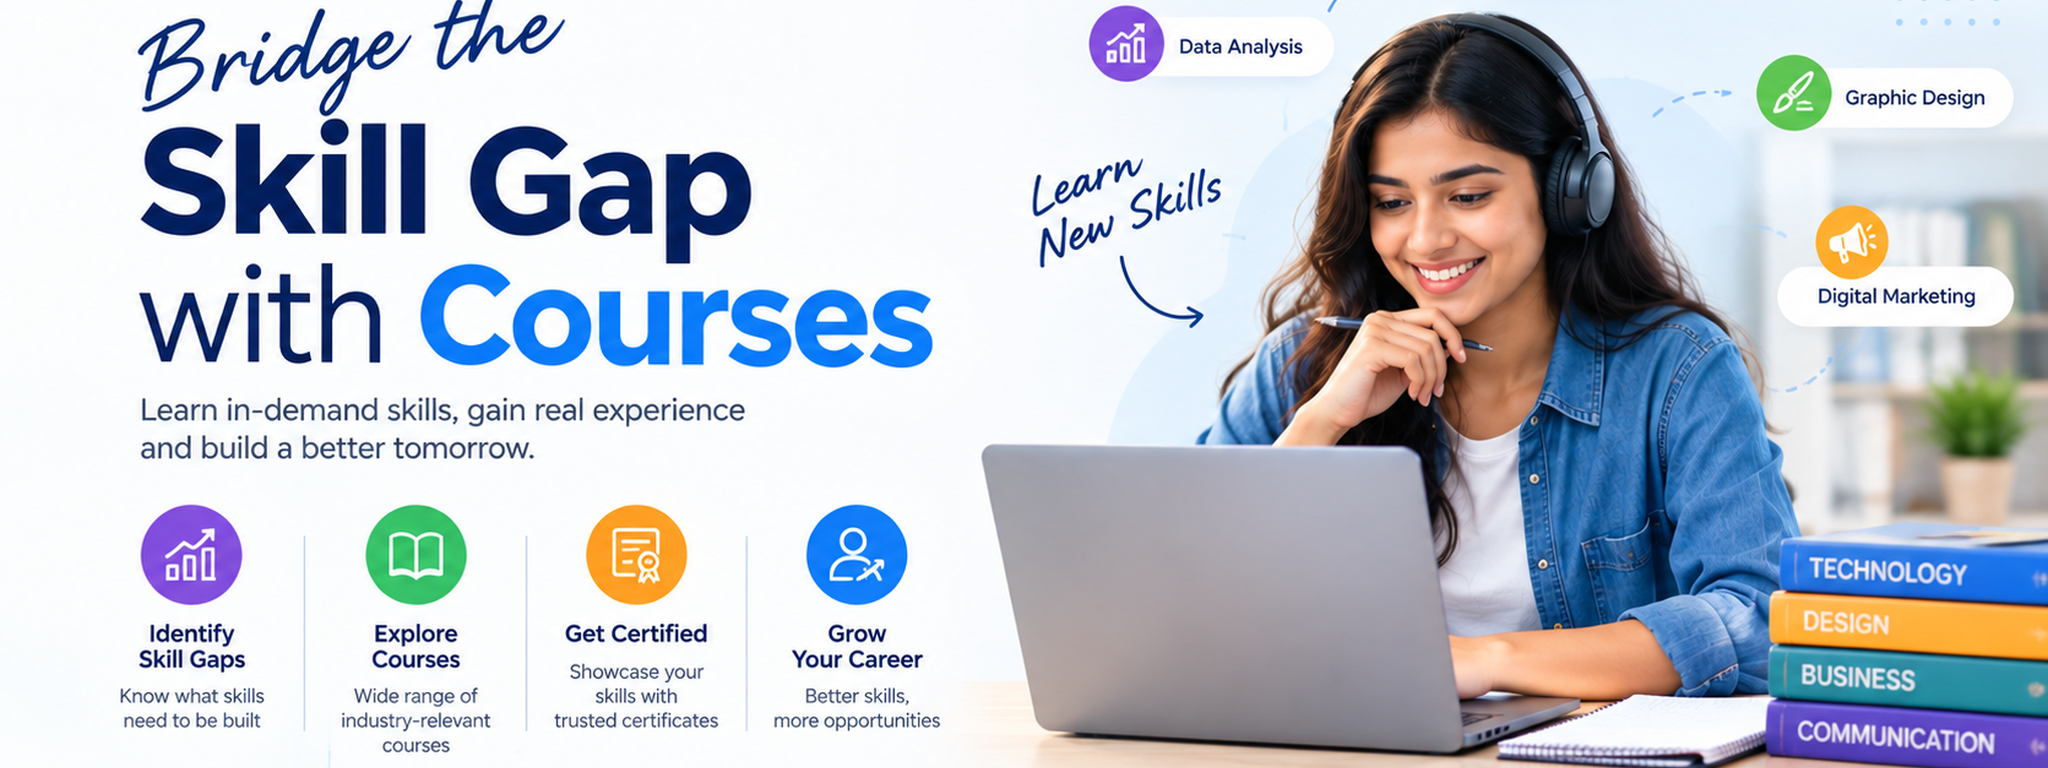
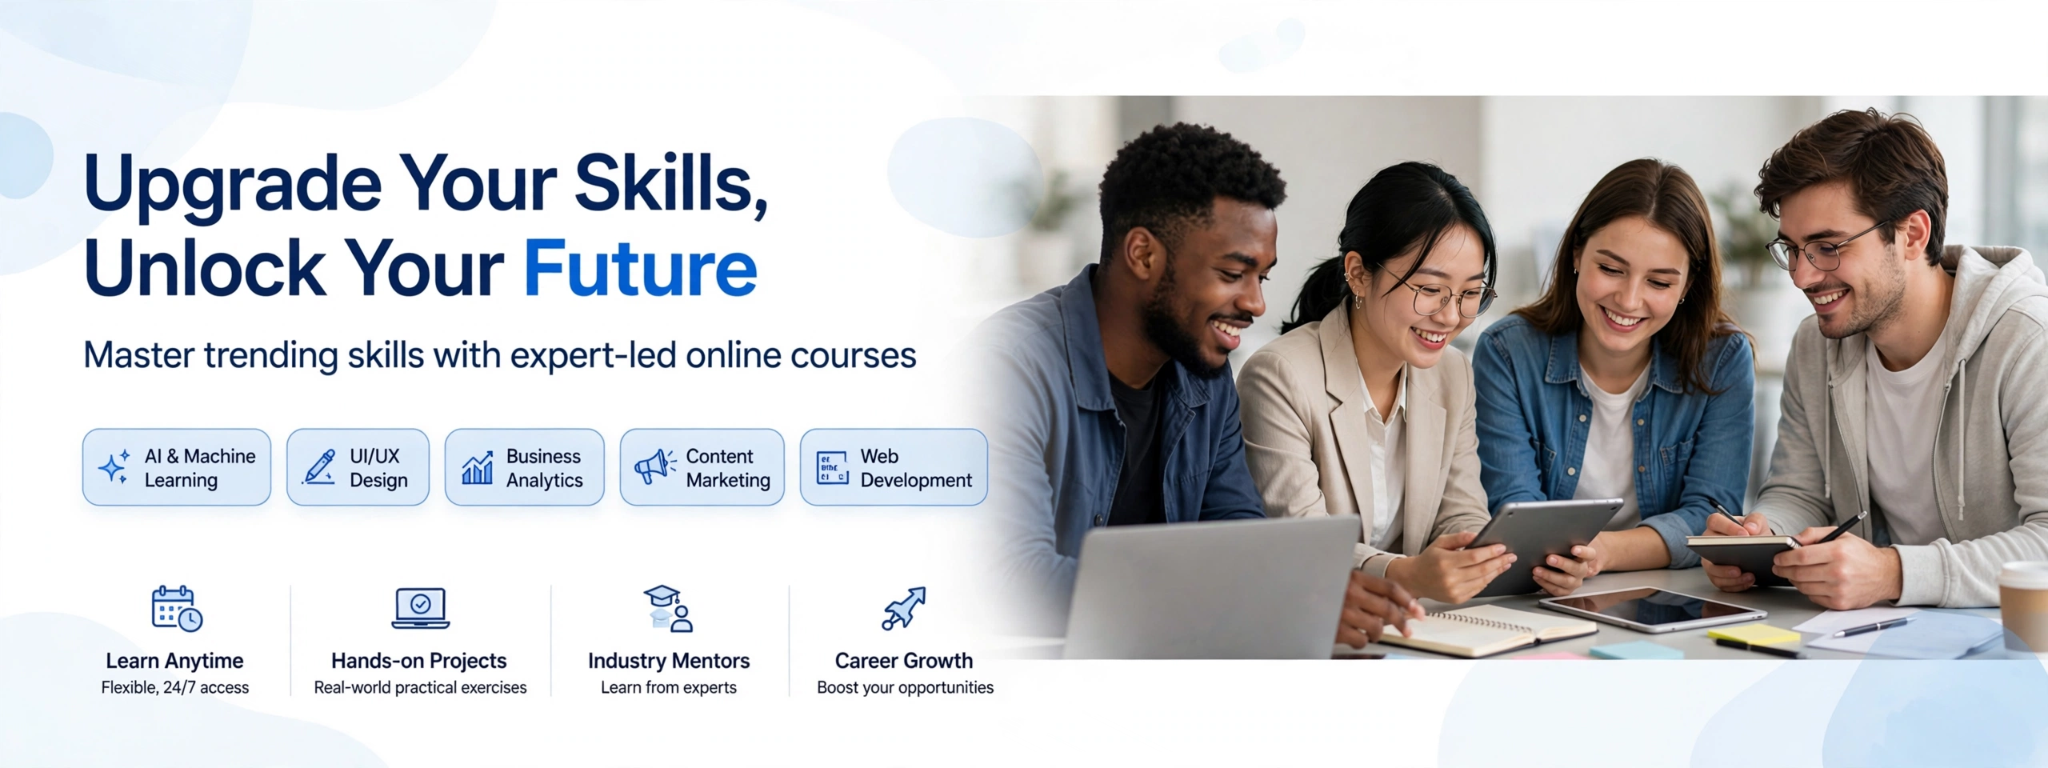
make responsive

diff --git a/Frontend/frontend/src/components/Navbar/Navbar.jsx b/Frontend/frontend/src/components/Navbar/Navbar.jsx
@@ -1,7 +1,8 @@
 import { Link, useLocation } from 'react-router-dom';
 import TeamLogo from '../../assets/team_logo.png'
 import { useState, useEffect } from 'react'
-import { MdDarkMode, MdLightMode } from "react-icons/md";
+import { MdDarkMode, MdLightMode, } from "react-icons/md";
+import MobileResponsive from './MobileResponsive';
 
 const Navbar = () => {
     const [theme, setTheme] = useState(localStorage.getItem("theme") || "light");
@@ -27,31 +28,79 @@ const Navbar = () => {
     "text-lg font-semibold hover:underline hover:underline-offset-4 hover:text-[#c25700] transition duration-100";
   return (
     <>
-    <nav className={`top-0 left-0 z-50 w-full fixed h-22 shadow-md ${theme === "light" ? "bg-white text-black" : "bg-black text-white"} flex items-center justify-between`}>
-       <div className="nav1 flex items-center">
-        <Link to='/'><img src={TeamLogo} alt="Team Logo" className='h-28 w-28 cursor-pointer transition-transform duration-300 hover:translate-y-1'/></Link>
-       </div>
-       <div className="nav2 flex items-center justify-between gap-8 p-10">
-        <Link to='/about' className={navLinkClass}>About</Link>
-        <Link to='/Courses' className={navLinkClass}>Courses</Link>
-        <Link to='/results' className={navLinkClass}>Results</Link>
-        <button  className='text-lg font-semibold hover:underline hover:transition hover:duration-100 hover:underline-offset-4 hover:text-[#c25700] cursor-pointer'>Lang</button>
-        <button
-           type="button"
-           aria-label={`Switch to ${theme === "light" ? "dark" : "light"} mode`}
-           title={`Switch to ${theme === "light" ? "dark" : "light"} mode`}
-           onClick={toggleTheme}
-           className="cursor-pointer border rounded-full px-1.5 py-1 text-xl flex items-center justify-center"
-        >
-    {theme === "light" ? <MdLightMode /> : <MdDarkMode />}
-</button>
-        <Link to='/register' className='bg-[#c25700] px-3.5 py-1.5 rounded-md text-white cursor-pointer  text-xl'>Register</Link>
-        <Link to='/login' className='text-[#c25700] border px-3.5 py-1.5 rounded-md hover:bg-[#c25700] hover:text-white transition duration-300 cursor-pointer  text-xl'>Login</Link>
-       </div>
-    </nav>
-    
+      <nav
+        className={`top-0 left-0 z-50 w-full fixed h-20 md:h-22 shadow-md ${theme === "light" ? "bg-white text-black" : "bg-black text-white"} flex items-center`}
+      >
+        {/* Logo */}
+        <div className="flex-shrink-0">
+          <Link to="/">
+            <img
+              src={TeamLogo}
+              alt="Team Logo"
+              className="h-20 w-20 md:h-28 md:w-28 cursor-pointer"
+            />
+          </Link>
+        </div>
+
+        {/* Desktop Navigation */}
+        <div className="hidden md:flex flex-1 items-center justify-end gap-8 px-6">
+          <Link to="/about" className={navLinkClass}>
+            About
+          </Link>
+
+          <Link to="/Courses" className={navLinkClass}>
+            Courses
+          </Link>
+
+          <Link to="/results" className={navLinkClass}>
+            Results
+          </Link>
+
+          <button className={navLinkClass}>Lang</button>
+
+          {/* Desktop Theme */}
+          <button
+            type="button"
+            onClick={toggleTheme}
+            className="cursor-pointer border rounded-full px-1.5 py-1 text-xl flex items-center justify-center"
+          >
+            {theme === "light" ? <MdLightMode /> : <MdDarkMode />}
+          </button>
+
+          <Link
+            to="/register"
+            className="bg-[#c25700] px-3.5 py-1.5 rounded-md text-white text-xl"
+          >
+            Register
+          </Link>
+
+          <Link
+            to="/login"
+            className="text-[#c25700] border px-3.5 py-1.5 rounded-md hover:bg-[#c25700] hover:text-white transition duration-300 text-xl"
+          >
+            Login
+          </Link>
+        </div>
+
+        {/* Right Side Controls */}
+        <div className="flex items-center ml-auto">
+          {/* Mobile Theme */}
+          <button
+            type="button"
+            onClick={toggleTheme}
+            className="md:hidden cursor-pointer border rounded-full px-1.5 py-1 text-xl flex items-center justify-center mr-3"
+          >
+            {theme === "light" ? <MdLightMode /> : <MdDarkMode />}
+          </button>
+
+          {/* Mobile Hamburger */}
+          <div className="md:hidden">
+            <MobileResponsive theme={theme}/>
+          </div>
+        </div>
+      </nav>
     </>
-  )
+  );
 }
 
 export default Navbar

diff --git a/Frontend/frontend/src/Pages/Home.jsx b/Frontend/frontend/src/Pages/Home.jsx
@@ -4,38 +4,67 @@ import img2 from '../assets/home_image2.png'
 import img3 from '../assets/home_image3.png'
 
 const images = [img1, img2, img3];
+
 const Home = () => {
   const [current, setCurrent] = useState(0);
 
-  useEffect(()=>{
-      const interval = setInterval(()=>{
-        setCurrent(prevImg => (prevImg + 1)%images.length);
-      },3000);
+  useEffect(() => {
+    const interval = setInterval(() => {
+      setCurrent(prevImg => (prevImg + 1) % images.length);
+    }, 3000);
 
-      return () => clearInterval(interval);
-  },[])
+    return () => clearInterval(interval);
+  }, []);
+
   return (
     <>
-    <main>
-    <div className="w-full h-auto min-h-screen">
-      <img
-        src={images[current]}
-        alt={`Home slide ${current + 1}`}
-        className="w-full h-full object-cover transition-all duration-700"
-      />
-    </div>
-    </main>
-    <section id='section2' className='h-full w-full'>
-        <h1>Section2</h1>
-       </section>
-       <section id='section3' className='h-full w-full'>
-        <h1>Section3</h1>
-       </section>
-       <section id='section4' className='h-full w-full'>
-        <h1>Section4</h1>
-       </section>
+      {/* Hero Section */}
+      <main className="w-full overflow-hidden">
+        <section className="w-full">
+          <img
+            src={images[current]}
+            alt={`Home slide ${current + 1}`}
+            className="block w-full h-auto transition-all duration-700"
+          />
+        </section>
+      </main>
+
+      {/* Section 2 */}
+      <section
+        id="section2"
+        className="w-full min-h-screen px-4 py-12 sm:px-6 md:px-10 lg:px-16"
+      >
+        <h1 className="text-2xl sm:text-3xl md:text-4xl font-bold">
+          Section 2
+        </h1>
+      </section>
+
+      {/* Section 3 */}
+      <section
+        id="section3"
+        className="w-full min-h-screen px-4 py-12 sm:px-6 md:px-10 lg:px-16"
+      >
+        <h1 className="text-2xl sm:text-3xl md:text-4xl font-bold">
+          Section 3
+        </h1>
+      </section>
+
+      {/* Section 4 */}
+      <section
+        id="section4"
+        className="w-full min-h-screen px-4 py-12 sm:px-6 md:px-10 lg:px-16"
+      >
+        <h1 className="text-2xl sm:text-3xl md:text-4xl font-bold">
+          Section 4
+        </h1>
+      </section>
+
+      {/* Bottom Bar - future */}
+      <footer className="w-full px-4 py-6 sm:px-6 md:px-10 lg:px-16">
+        {/* Bottom bar content will come here */}
+      </footer>
     </>
-  )
+  );
 }
 
 export default Home

diff --git a/Frontend/frontend/src/components/Navbar/MobileResponsive.jsx b/Frontend/frontend/src/components/Navbar/MobileResponsive.jsx
@@ -1,0 +1,75 @@
+import { useState } from "react";
+import { Link } from "react-router-dom";
+import { MdMenu, MdClose} from "react-icons/md";
+
+const MobileResponsive = ({theme}) => {
+  const [menuOpen, setMenuOpen] = useState(false);
+  const hoverEffect = "w-full text-center py-3 text-lg font-semibold transition-all duration-300 hover:bg-[#c25700] hover:text-white hover:-translate-y-1 hover:shadow-[0_8px_20px_rgba(0,0,0,0.25)] ";
+  return (
+    <>
+      {/* Hamburger Button */}
+      <button
+        onClick={() => setMenuOpen(!menuOpen)}
+        className="text-3xl mr-4"
+      >
+        {menuOpen ? <MdClose /> : <MdMenu />}
+      </button>
+
+      {/* Mobile Menu */}
+      {menuOpen && (
+        <div className={`absolute top-20 left-0 w-full shadow-md ${  theme === "light" ? "bg-white text-black" : "bg-black text-white" }`}>
+          
+          <div className="flex flex-col items-center gap-5 py-6">
+
+            <Link
+              to="/about"
+              onClick={() => setMenuOpen(false)}
+              className={hoverEffect}            >
+              About
+            </Link>
+
+            <Link
+              to="/Courses"
+              onClick={() => setMenuOpen(false)}
+              className={hoverEffect}   
+            >
+              Courses
+            </Link>
+
+            <Link
+              to="/results"
+              onClick={() => setMenuOpen(false)}
+              className={hoverEffect}   
+            >
+              Results
+            </Link>
+
+            <button className={hoverEffect}   >
+              Lang
+            </button>
+
+            <Link
+              to="/register"
+              onClick={() => setMenuOpen(false)}
+              className={hoverEffect}   
+            >
+              Register
+            </Link>
+
+            <Link
+              to="/login"
+              onClick={() => setMenuOpen(false)}
+              className={hoverEffect}   
+            >
+              Login
+            </Link>
+
+          </div>
+        </div>
+      )}
+    </>
+  );
+};
+
+export default MobileResponsive;
+

diff --git a/Frontend/frontend/src/components/Navbar/LineraEffcet.jsx b/Frontend/frontend/src/components/Navbar/LineraEffcet.jsx
@@ -3,30 +3,37 @@ import { useLocation } from 'react-router-dom';
 
 const LineraEffcet = () => {
   const location = useLocation();
+
   if (['/login', '/register'].includes(location.pathname)) {
-  return null;
-}
+    return null;
+  }
+
   return (
-    <>
-    <main className='pt-22'>
-    <div className="overflow-hidden bg-[#c25700] text-white py-2">
-       <div className="marquee flex w-max">
-          <span className="mx-8">
+    <main className="pt-20 md:pt-22">
+      <div className="overflow-hidden bg-[#c25700] text-white py-2">
+        
+        <div className="marquee flex w-max whitespace-nowrap text-sm md:text-base">
+          
+          <span className="mx-4 md:mx-8">
             🚀 Jobs • Courses • Placement • Internship •
           </span>
-          <span className="mx-8">
+
+          <span className="mx-4 md:mx-8">
             🚀 Jobs • Courses • Placement • Internship •
           </span>
-          <span className="mx-8">
+
+          <span className="mx-4 md:mx-8">
             🚀 Jobs • Courses • Placement • Internship •
           </span>
-          <span className="mx-8">
+
+          <span className="mx-4 md:mx-8">
             🚀 Jobs • Courses • Placement • Internship •
           </span>
-  </div>
-</div>
-</main>
-    </>
+
+        </div>
+
+      </div>
+    </main>
   )
 }
 
